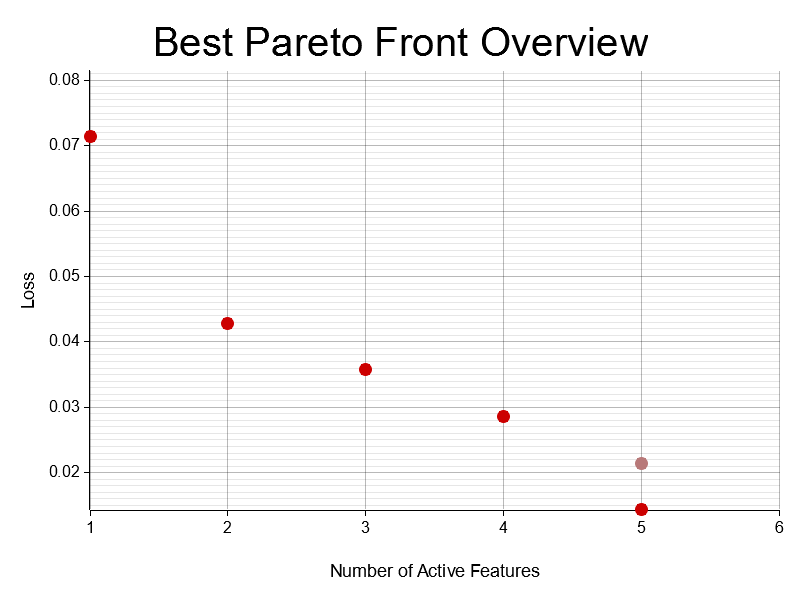
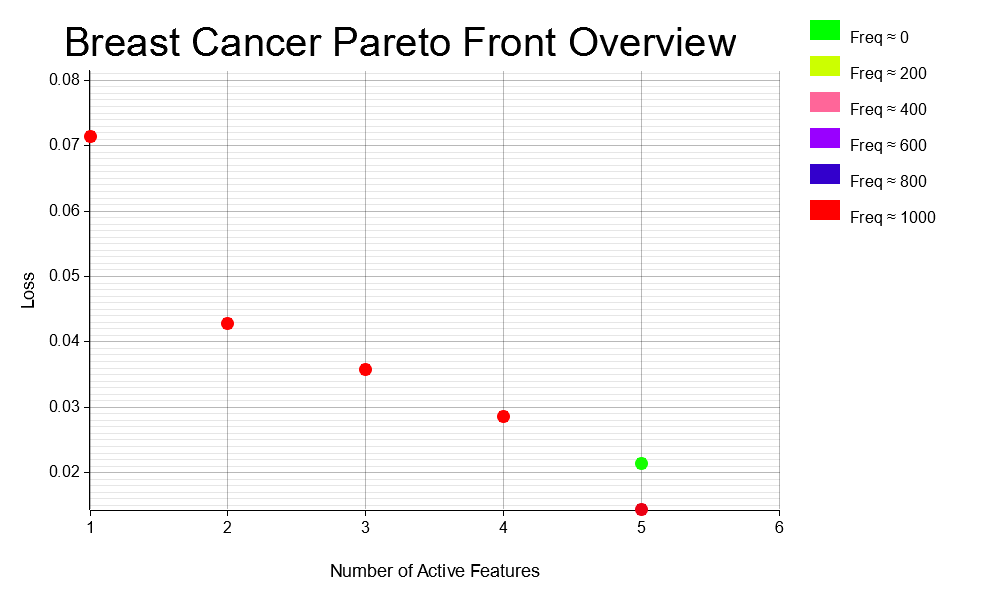
Updated plot function for multirun cycle for Moo

diff --git a/src/algorithms/moo/moo.rs b/src/algorithms/moo/moo.rs
@@ -47,6 +47,7 @@ pub fn create_individual(gene_length: usize, data: &Vec<Combination>) -> MooComb
     if let Some(existing) = data.iter().find(|c| c.combination == activated_columns) {
         existing.clone().into()
     } else {
+        println!("Creating new individual: {:?}", activated_columns);
         MooCombination {
             combination: activated_columns,
             loss: 0.0,
@@ -721,43 +722,57 @@ pub fn execute_run_n_times(
     all_best
 }
 
-/// Helper function to choose a base hue (in degrees) for a given x-value (number of features).
-fn hue_for_x(x: i32) -> f64 {
-    match x {
-        1 => 0.0,    // red
-        2 => 60.0,   // yellow
-        3 => 120.0,  // green
-        4 => 180.0,  // cyan
-        5 => 240.0,  // blue
-        6 => 300.0,  // magenta
-        // For x > 6, just wrap around or pick a default
-        _ => 0.0,    // fallback to red
+// Helper function to linearly interpolate between two u8 values.
+fn lerp(a: u8, b: u8, t: f64) -> u8 {
+    (a as f64 + t * ((b as f64) - (a as f64))).round() as u8
+}
+
+/// Interpolates a color given a value in [0,1] and a set of color stops.
+/// Each stop is a tuple (t, (r, g, b)) where t is the normalized frequency value.
+fn interpolate_color(value: f64, stops: &[(f64, (u8, u8, u8))]) -> RGBColor {
+    // If value is below the first stop, return the first color.
+    if value <= stops[0].0 {
+        let (r, g, b) = stops[0].1;
+        return RGBColor(r, g, b);
     }
+    // Otherwise, find the two stops surrounding value.
+    for i in 0..stops.len() - 1 {
+        let (t0, (r0, g0, b0)) = stops[i];
+        let (t1, (r1, g1, b1)) = stops[i + 1];
+        if value >= t0 && value <= t1 {
+            let t = (value - t0) / (t1 - t0);
+            let r = lerp(r0, r1, t);
+            let g = lerp(g0, g1, t);
+            let b = lerp(b0, b1, t);
+            return RGBColor(r, g, b);
+        }
+    }
+    // If value exceeds the last stop, return the last color.
+    let (r, g, b) = stops.last().unwrap().1;
+    RGBColor(r, g, b)
 }
 
 pub fn plot_best_pareto_overview(
     all_best: &[MooCombination],
     filename: &str,
+    plot_name: &str,
 ) -> Result<(), Box<dyn std::error::Error>> {
     // Build frequency map from the all_best population.
-    let mut freq_map: HashMap<String, usize> = HashMap::new();
+    let mut freq_map: std::collections::HashMap<String, usize> = std::collections::HashMap::new();
     for ind in all_best {
         // Skip individuals with infinite loss.
         if ind.loss.is_infinite() {
             continue;
         }
         let (active, loss) = get_fitness(ind);
-        // Create a key that identifies a point (using a rounded loss to 3 for grouping).
+        // Create a key that identifies a point (using a rounded loss to 3 decimal places).
         let key = format!("({}, {:.3})", active, loss);
         *freq_map.entry(key).or_insert(0) += 1;
     }
     println!("{:?}", freq_map);
 
-    // Find maximum frequency (for normalizing colors later).
-    let max_freq = freq_map.values().copied().max().unwrap_or(1);
-
     // Extract unique points from the all_best population.
-    let mut unique_points: HashMap<String, &MooCombination> = HashMap::new();
+    let mut unique_points: std::collections::HashMap<String, &MooCombination> = std::collections::HashMap::new();
     for ind in all_best {
         if ind.loss.is_infinite() {
             continue;
@@ -766,15 +781,14 @@ pub fn plot_best_pareto_overview(
         let key = format!("({}, {:.3})", active, loss);
         unique_points.entry(key).or_insert(ind);
     }
-
-    // Collect unique individuals for computing plot ranges.
+    
     let unique_vals: Vec<&&MooCombination> = unique_points.values().collect();
     if unique_vals.is_empty() {
         println!("No valid individuals to plot.");
         return Ok(());
     }
-
-    // Determine x range (number of active features) and y range (loss)
+    
+    // Determine plot ranges.
     let x_min = unique_vals
         .iter()
         .map(|ind| ind.combination.iter().filter(|&&b| b).count() as i32)
@@ -793,18 +807,34 @@ pub fn plot_best_pareto_overview(
         .iter()
         .map(|ind| ind.loss)
         .fold(f64::NEG_INFINITY, |a, b| a.max(b));
-
-    // Set up the drawing area.
-    let root = BitMapBackend::new(filename, (800, 600)).into_drawing_area();
+    
+    // Find maximum frequency for normalization.
+    let max_freq = freq_map.values().copied().max().unwrap_or(1);
+    
+    // Define color stops for the gradient.
+    let color_stops = vec![
+        (0.0, (0, 255, 0)),     // Green at normalized value 0.0
+        (0.25, (255, 255, 0)),  // Yellow at 0.25
+        (0.5, (255, 0, 255)),   // Magenta at 0.5
+        (0.75, (0, 0, 255)),    // Blue at 0.75
+        (1.0, (255, 0, 0)),     // Red at 1.0
+    ];
+    
+    // Set up the drawing area and split it for the chart and legend.
+    let root = BitMapBackend::new(filename, (1000, 600)).into_drawing_area();
     root.fill(&WHITE)?;
-
-    let mut chart = ChartBuilder::on(&root)
-        .caption("Best Pareto Front Overview", ("sans-serif", 50))
+    let areas = root.split_horizontally(800); // 800 pixels for the chart, 200 for the legend
+    let chart_area = areas.0.clone();
+    let legend_area = areas.1.clone();
+    
+    let plot_title = format!("{} Pareto Front Overview", plot_name);
+    let mut chart = ChartBuilder::on(&chart_area)
+        .caption(plot_title, ("sans-serif", 50))
         .margin(20)
         .x_label_area_size(70)
         .y_label_area_size(70)
         .build_cartesian_2d(x_min..(x_max + 1), y_min..(y_max + 0.01))?;
-
+    
     chart.configure_mesh()
         .x_desc("Number of Active Features")
         .y_desc("Loss")
@@ -812,31 +842,51 @@ pub fn plot_best_pareto_overview(
         .x_label_style(("sans-serif", 20).into_font())
         .y_label_style(("sans-serif", 20).into_font())
         .draw()?;
-
-    // Plot each unique point with a color determined by both its x-value and frequency.
+    
+    // Plot each unique point using a color computed from the normalized frequency.
     for (key, ind) in unique_points {
         let frequency = *freq_map.get(&key).unwrap_or(&0);
-        let normalized = frequency as f64 / max_freq as f64; // value in [0, 1]
-
         let x = ind.combination.iter().filter(|&&b| b).count() as i32;
         let y = ind.loss;
-
-        // Base hue depends on x, so each x gets its own color "family".
-        let base_hue = hue_for_x(x);
-
-        // Saturation from 0.3 (low freq) up to 1.0 (high freq).
-        let saturation = 0.3 + normalized * 0.7;
-
-        let lightness = 0.6 - normalized * 0.2; // from 0.6 down to 0.4
-
-        let color = HSLColor(base_hue, saturation, lightness);
-
-        // Draw the point as a circle.
+    
+        let normalized = frequency as f64 / max_freq as f64; // value in [0,1]
+        let color = interpolate_color(normalized, &color_stops);
+    
         chart.draw_series(std::iter::once(
             Circle::new((x, y), 6, color.filled()),
         ))?;
     }
-
+    
+    // Draw the legend in the legend area.
+    legend_area.fill(&WHITE)?;
+    let legend_font = ("sans-serif", 20).into_font();
+    let tick_count = 5;
+    let legend_height = 200;
+    let legend_width = 30;
+    let start_y = 20;
+    let step_y = (legend_height - start_y) / tick_count;
+    
+    for i in 0..=tick_count {
+        let t = i as f64 / tick_count as f64; // normalized value
+        let color = interpolate_color(t, &color_stops);
+        // Compute the corresponding frequency.
+        let freq_value = (t * max_freq as f64).round() as usize;
+        let rect_top = start_y + i * step_y;
+        // Draw a small colored rectangle.
+        legend_area.draw(&Rectangle::new(
+            [(10, rect_top), (10 + legend_width, rect_top + 20)],
+            color.filled(),
+        ))?;
+        // Draw the label aligned vertically with the center of the rectangle.
+        let label = format!("Freq ≈ {}", freq_value);
+        legend_area.draw(&Text::new(
+            label,
+            (10 + legend_width + 10, rect_top + 10), // use rect_top + 10 for vertical centering
+            legend_font.clone(),
+        ))?;
+    }
+    
+    
     root.present()?;
     println!("Best Pareto Front overview plot saved to {}", filename);
     Ok(())
@@ -952,7 +1002,8 @@ pub fn init() {
     let population_size = 100; // Size of the population
     let generations = 1000; // Number of generations to run
     let generations_to_print = 100; // Print every x generations
-    let gene_length = 9; // Number of features (columns) in the dataset
+    let mut gene_length = 9; // Number of features (columns) in the dataset
+    let n_times = 50;
 
     // let final_sorted_population = run_moo_algorithm(file_path, population_size, generations, generations_to_print, gene_length);
 
@@ -981,9 +1032,10 @@ pub fn init() {
     // 1) Loads the breast cancer dataset
     let file_path = "XGB-Feature-Selection/output/breast_cancer_wisconsin_original"; 
     let plot_filename = "src/output/moo/nsga_2_breast_cancer_multiple.png";
+    gene_length = 9;
 
     let all_best = execute_run_n_times(
-        100, 
+        n_times, 
         population_size, 
         generations, 
         generations_to_print, 
@@ -992,7 +1044,41 @@ pub fn init() {
         false,
         true
     );
-    plot_best_pareto_overview(&all_best, plot_filename).unwrap();
+    plot_best_pareto_overview(&all_best, plot_filename, "Breast Cancer").unwrap();
+
+    // // 2) Loads the wine quality dataset
+    // let file_path = "XGB-Feature-Selection/output/wine_quality_combined"; 
+    // let plot_filename = "src/output/moo/nsga_2_wine_combined_multiple.png";
+    // gene_length = 11;
+
+    // let all_best_wine = execute_run_n_times(
+    //     n_times, 
+    //     population_size, 
+    //     generations, 
+    //     generations_to_print, 
+    //     gene_length, 
+    //     file_path,
+    //     false,
+    //     true
+    // );
+    // plot_best_pareto_overview(&all_best_wine, plot_filename, "Wine").unwrap();
+
+    // // 3) Loads the breast cancer dataset
+    // let file_path = "XGB-Feature-Selection/output/titanic"; 
+    // let plot_filename = "src/output/moo/nsga_2_titanic_multiple.png";
+    // gene_length = 8;
+
+    // let all_best_titanic = execute_run_n_times(
+    //     n_times, 
+    //     population_size, 
+    //     generations, 
+    //     generations_to_print, 
+    //     gene_length, 
+    //     file_path,
+    //     false,
+    //     true
+    // );
+    // plot_best_pareto_overview(&all_best_titanic, plot_filename, "Titanic").unwrap();
 
 
 

diff --git a/src/main.rs b/src/main.rs
@@ -5,8 +5,6 @@ use crate::algorithms::pso::pso; // Import the hello function from pso module
 use crate::algorithms::moo::moo::init; // Import the hello function from moo module
 
 fn main() {
-    init();
-    // Call the hello function from pso.rs
-    //soo::single_output_optimization(["breast_cancer_wisconsin_original", "titanic", "wine_quality_combined"]);
-    soo::multi_run_validation("breast_cancer_wisconsin_original");
+// pso::init();
+init();
 }
